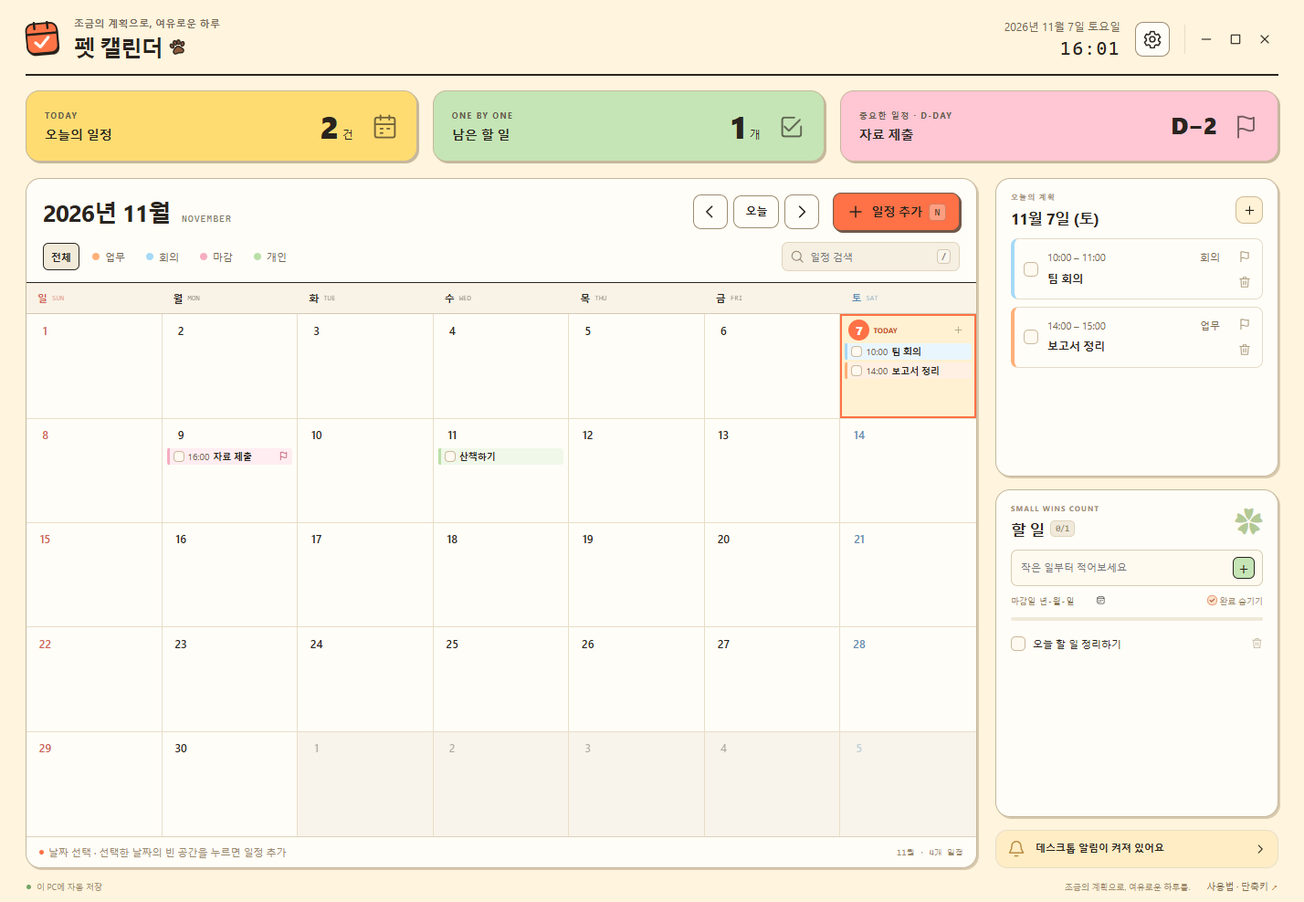
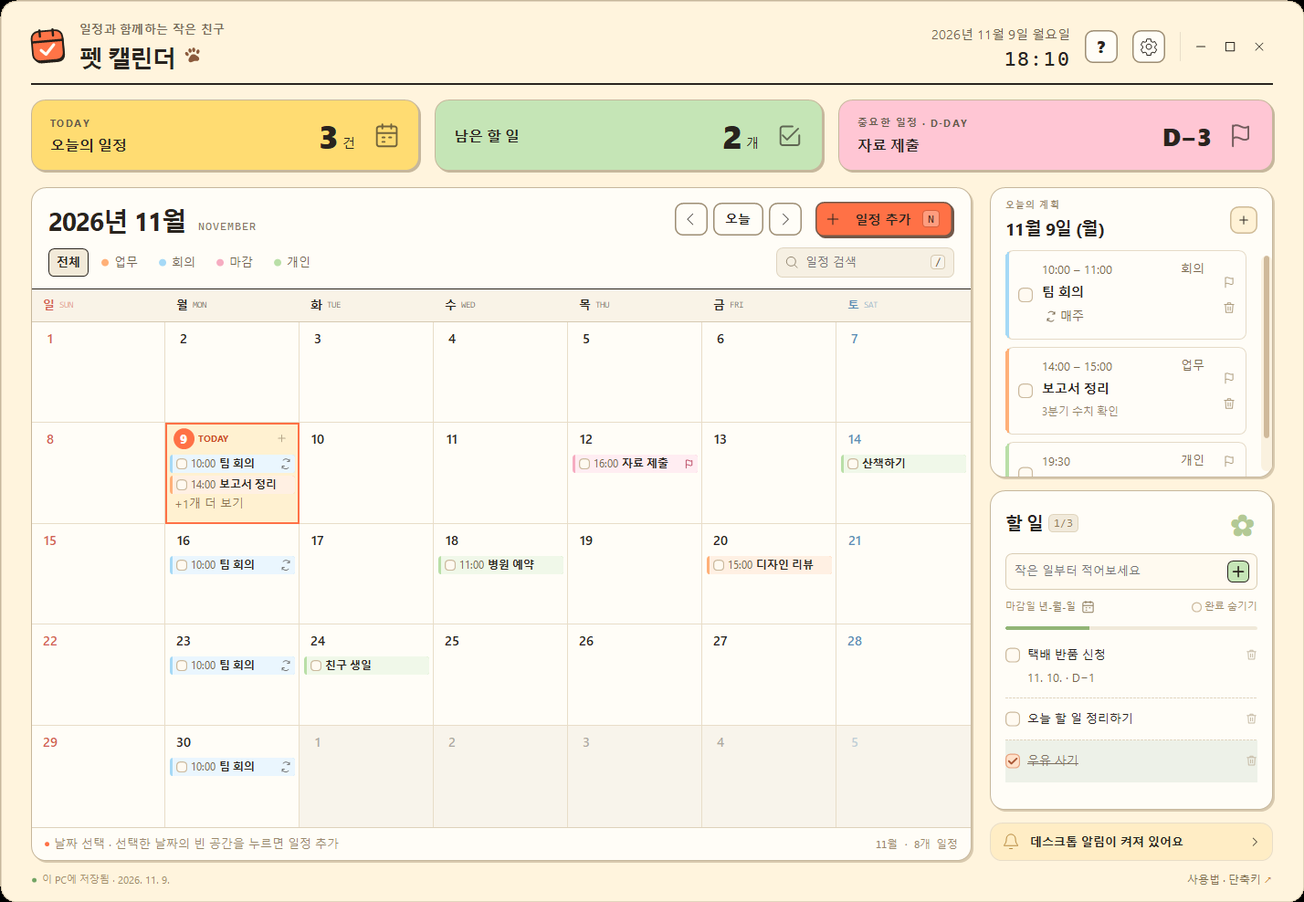
Release v3.1.0: day popup, undo/redo, drag to tasks
- "+N more" opens a popup with every schedule of that date
- Undo/redo history for event and task changes (Ctrl+Z / Ctrl+Y), shared with toast undo buttons
- Close button on undo toasts
- Drag schedules from the day panel; drop schedules on the task panel to turn them into tasks
- Fix a crash when closing a dialog while a toast was shown (toast owner reassignment)
- Wider window resize band and corner zones
- Center the task add button; update help text, README and screenshot

diff --git a/desktop/native/CalendarLogic.cs b/desktop/native/CalendarLogic.cs
@@ -56,7 +56,8 @@ namespace PetCalendarDesktop {
             foreach(var list in days.Values)list.Sort(CompareDay);
             indexCache=days;indexState=state;indexToken=token;return days;
         }
-        internal List<Occurrence> SelectedRows(){List<Occurrence> rows;if(MonthIndex().TryGetValue(selected,out rows))return rows;rows=Rules.Occurrences(state.events.Where(Matches),selected,selected,false).Where(o=>String.CompareOrdinal(o.startDate,selected)<=0&&String.CompareOrdinal(o.endDate,selected)>=0).ToList();rows.Sort(CompareDay);return rows;}
+        internal List<Occurrence> SelectedRows(){return RowsFor(selected);}
+        internal List<Occurrence> RowsFor(string key){List<Occurrence> rows;if(MonthIndex().TryGetValue(key,out rows))return rows;rows=Rules.Occurrences(state.events.Where(Matches),key,key,false).Where(o=>String.CompareOrdinal(o.startDate,key)<=0&&String.CompareOrdinal(o.endDate,key)>=0).ToList();rows.Sort(CompareDay);return rows;}
         int TodayCount(){string today=Rules.Key(DateTime.Today);return Rules.Occurrences(state.events,today,today,false).Count(o=>String.CompareOrdinal(o.startDate,today)<=0&&String.CompareOrdinal(o.endDate,today)>=0);}
         List<CalendarEvent> SearchFound(){if(searchCache!=null&&searchState==state&&searchToken==filter+"|"+search)return searchCache;searchState=state;searchToken=filter+"|"+search;return searchCache=state.events.Where(Matches).OrderBy(e=>e.startDate,StringComparer.Ordinal).ToList();}
         string VisibleCount(){
@@ -84,8 +85,9 @@ namespace PetCalendarDesktop {
         // Saves run one after another; each re-applies its change to the latest saved state,
         // so quick successive clicks are never dropped. A failure restores the saved state.
         Task saveChain=Task.FromResult(true);int pendingSaves;bool saveFailedInBatch;
-        internal async Task<bool> Commit(Action<CalendarState> change,bool applyHotkey=false){
-            var preview=Clone(state);
+        internal Task<bool> Commit(Action<CalendarState> change,bool applyHotkey=false){return Commit(change,applyHotkey,true);}
+        async Task<bool> Commit(Action<CalendarState> change,bool applyHotkey,bool record){
+            var before=state;var preview=Clone(state);
             try{change(preview);Rules.Validate(Codec.Json(preview));}catch(Exception error){Toast("내용을 확인해 주세요",error.Message,"error");return false;}
             pendingSaves++;saving=true;state=preview;Render();
             if(pendingSaves==1){saveFailedInBatch=false;foreach(var d in DialogForm.Open.ToArray())d.SavingChanged();}
@@ -98,6 +100,7 @@ namespace PetCalendarDesktop {
                 if(response.status==409)throw new Exception("다른 창의 변경 내용을 불러왔습니다. 입력 중인 내용을 확인한 뒤 다시 저장해 주세요.");
                 if(response.status!=200)throw new Exception(ErrorOf(response.body)??"저장하지 못했습니다.");
                 ok=true;
+                if(record)Record(before,preview);
             }catch(Exception error){
                 saveFailedInBatch=true;Banner(error.Message);SetSaveStatus("저장하지 못함 · 입력 내용을 확인해 주세요",true);Toast("저장을 완료하지 못했어요",error.Message,"error",10000);
             }finally{
@@ -112,6 +115,62 @@ namespace PetCalendarDesktop {
             }
             return ok;
         }
+        // ---------- Undo / redo ----------
+        // Each saved change to events or tasks is remembered as per-item before/after copies.
+        // Undo writes the "before" copies back onto the latest state (and redo the "after" ones),
+        // so it merges with unrelated edits made since, e.g. from the widget or another window.
+        internal sealed class HistoryEntry {public List<ItemChange> Events=new List<ItemChange>(),Tasks=new List<ItemChange>();public string Label="";}
+        internal sealed class ItemChange {public string Id,Before,After;public int BeforeIndex,AfterIndex;}
+        readonly List<HistoryEntry> undoStack=new List<HistoryEntry>(),redoStack=new List<HistoryEntry>();
+        internal HistoryEntry LastRecorded{get{return undoStack.Count>0?undoStack[undoStack.Count-1]:null;}}
+        static List<ItemChange> Diff<T>(T[] before,T[] after,Func<T,string> id){
+            var result=new List<ItemChange>();var b=new Dictionary<string,int>();var a=new Dictionary<string,int>();
+            for(int i=0;i<before.Length;i++)b[id(before[i])]=i;for(int i=0;i<after.Length;i++)a[id(after[i])]=i;
+            foreach(var key in b.Keys.Concat(a.Keys.Where(k=>!b.ContainsKey(k)))){
+                int bi,ai;bool hb=b.TryGetValue(key,out bi),ha=a.TryGetValue(key,out ai);
+                string bj=hb?Codec.Json(before[bi]):null,aj=ha?Codec.Json(after[ai]):null;
+                if(bj!=aj)result.Add(new ItemChange{Id=key,Before=bj,After=aj,BeforeIndex=hb?bi:-1,AfterIndex=ha?ai:-1});
+            }
+            return result;
+        }
+        void Record(CalendarState before,CalendarState after){
+            if(before==null||after==null)return;
+            var entry=new HistoryEntry{Events=Diff(before.events,after.events,e=>e.id),Tasks=Diff(before.tasks,after.tasks,t=>t.id)};
+            if(entry.Events.Count+entry.Tasks.Count==0)return;
+            var first=entry.Events.Concat(entry.Tasks).First();string json=first.After??first.Before;
+            try{var o=Codec.Object(json);object title;if(o!=null&&o.TryGetValue("title",out title))entry.Label=title as string??"";}catch{}
+            int count=entry.Events.Count+entry.Tasks.Count;if(count>1&&entry.Label.Length>0)entry.Label+=" 외 "+(count-1)+"개";
+            undoStack.Add(entry);if(undoStack.Count>100)undoStack.RemoveAt(0);redoStack.Clear();
+        }
+        static T[] Patch<T>(T[] current,List<ItemChange> changes,bool undo,Func<T,string> id){
+            var list=current.ToList();
+            foreach(var c in changes){
+                string json=undo?c.Before:c.After;int at=undo?c.BeforeIndex:c.AfterIndex;int index=list.FindIndex(x=>id(x)==c.Id);
+                if(json==null){if(index>=0)list.RemoveAt(index);continue;}
+                var item=Codec.Read<T>(json);if(index>=0)list[index]=item;else list.Insert(Math.Max(0,Math.Min(list.Count,at)),item);
+            }
+            return list.ToArray();
+        }
+        static void Apply(CalendarState s,HistoryEntry entry,bool undo){
+            s.events=Patch(s.events,entry.Events,undo,e=>e.id);s.tasks=Patch(s.tasks,entry.Tasks,undo,t=>t.id);
+            // Only one schedule can be the D-day; keep the restored one.
+            var restored=new HashSet<string>(entry.Events.Select(c=>c.Id));
+            if(s.events.Count(e=>e.pinned)>1){foreach(var e in s.events)if(e.pinned&&!restored.Contains(e.id)){e.pinned=false;e.pinnedDate="";}
+                bool kept=false;foreach(var e in s.events)if(e.pinned){if(kept){e.pinned=false;e.pinnedDate="";}kept=true;}}
+        }
+        // Returns false when there was nothing to undo or the save failed.
+        internal async Task<bool> Undo(HistoryEntry only=null){
+            var entry=LastRecorded;if(entry==null||(only!=null&&entry!=only))return false;undoStack.RemoveAt(undoStack.Count-1);
+            if(await Commit(s=>Apply(s,entry,true),false,false)){redoStack.Add(entry);return true;}
+            undoStack.Add(entry);return false;
+        }
+        internal async Task<bool> Redo(){
+            if(redoStack.Count==0)return false;var entry=redoStack[redoStack.Count-1];redoStack.RemoveAt(redoStack.Count-1);
+            if(await Commit(s=>Apply(s,entry,false),false,false)){undoStack.Add(entry);return true;}
+            redoStack.Add(entry);return false;
+        }
+        async void UndoKey(){if(undoStack.Count==0){Toast("되돌릴 작업이 없어요");return;}var entry=LastRecorded;var label=entry.Label;if(await Undo()){Toasts.CloseFor(entry);Toast("실행을 취소했어요",label+"\nCtrl+Y로 다시 실행할 수 있어요.");}}
+        async void RedoKey(){if(redoStack.Count==0){Toast("다시 실행할 작업이 없어요");return;}var label=redoStack[redoStack.Count-1].Label;if(await Redo())Toast("다시 실행했어요",label);}
         internal string LastError{get{return bannerText??"";}}
         void Reload(){if(saving)return;state=store.Snapshot;bannerVisible=false;Render();SetSaveStatus("최신 내용을 불러왔어요",false);Toast("최신 내용을 불러왔어요","입력 중인 내용은 확인 후 다시 저장해 주세요.");}
         internal void StoreChanged(){
@@ -120,7 +179,13 @@ namespace PetCalendarDesktop {
         }
         // ---------- Toasts and prompts ----------
         internal void Toast(string title,string detail="",string kind="info",int duration=6000){Toasts.Show(title,detail,kind,duration);}
-        internal void UndoToast(string title,string detail,Func<Task<bool>> restore,string restored="삭제를 되돌렸어요"){Toasts.Show(title,detail,"info",10000,"되돌리기",restore,restored);}
+        // The undo button rolls back through the shared history while this change is still the
+        // latest one (so Ctrl+Z and the button agree); otherwise it falls back to a targeted restore.
+        internal void UndoToast(string title,string detail,Func<Task<bool>> restore,string restored="삭제를 되돌렸어요"){
+            var entry=LastRecorded;
+            var toast=Toasts.Show(title,detail,"info",10000,"되돌리기",async()=>{if(entry!=null&&LastRecorded==entry)return await Undo(entry);return await restore();},restored);
+            if(toast!=null)toast.Entry=entry;
+        }
         internal Task<bool> Confirm(string title,string text,string label="확인"){
             if(DialogForm.Open.OfType<ConfirmDialog>().Any())return Task.FromResult(false);
             var source=new TaskCompletionSource<bool>();var dialog=new ConfirmDialog(this,title,text,label,source);dialog.Show(dialog.Accept);return source.Task;
@@ -131,6 +196,8 @@ namespace PetCalendarDesktop {
             var e=state.events.FirstOrDefault(x=>x.id==id);if(e==null)return;bool done=!Rules.Done(e,key);
             if(!await Commit(s=>{var item=s.events.FirstOrDefault(x=>x.id==id);if(item==null)return;item.completedDates=item.completedDates.Where(d=>d!=key).Concat(done?new[]{key}:new string[0]).ToArray();}))Render();
         }
+        internal void ToggleOccurrence(string id,string key){ToggleEvent(id,key);}
+        internal void OpenDayList(string key){if(modal)return;var dialog=new DayListDialog(this,key);dialog.Show(null);}
         internal void OpenEvent(string id,string key,bool duplicate){
             if(saving||modal&&!DialogForm.Open.OfType<EventDialog>().Any()&&false)return;
             if(DialogForm.Open.OfType<EventDialog>().Any()&&!duplicate)return;
@@ -199,7 +266,23 @@ namespace PetCalendarDesktop {
                         if(series.completedDates.Concat(series.excludedDates).Concat(series.pinnedDate!=""?new[]{series.pinnedDate}:new string[0]).Any(k=>!Rules.OccursOn(probe,k)))throw new AppError(400,"반복 일정의 기존 기록을 보존하려면 이번 일정만 이동해 주세요.");}
                 }
             });
-            if(ok){JumpTo(target);Toast("일정을 옮겼어요",original.title);}
+            if(ok){JumpTo(target);UndoToast("일정을 옮겼어요",original.title,()=>Task.FromResult(false),"이동을 되돌렸어요");}
+        }
+        // A schedule dropped on the task panel becomes a task due on that date. For a repeating
+        // schedule the user picks this occurrence only (skipped in the series) or the whole series.
+        async void DropToTasks(DragInfo d){
+            var original=state.events.FirstOrDefault(e=>e.id==d.EventId);if(original==null)return;
+            string scope="all";if(original.repeat!="none"){scope=await RepeatScope("할 일로 이동",d.Start);if(scope==null)return;}
+            bool done=Rules.Done(original,d.Start);string due=scope=="one"||original.repeat=="none"?d.Start:original.startDate;
+            var task=new CalendarTask{id=scope=="one"?Guid.NewGuid().ToString():original.id,title=original.title,dueDate=due,done=scope=="one"||original.repeat=="none"?done:false,createdAt=DateTime.UtcNow.ToString("yyyy-MM-ddTHH:mm:ss.fffZ",CultureInfo.InvariantCulture)};
+            bool ok=await Commit(s=>{
+                var series=s.events.FirstOrDefault(e=>e.id==d.EventId);if(series==null)throw new AppError(400,"일정을 찾지 못했습니다.");
+                if(scope=="one"){series.excludedDates=series.excludedDates.Concat(new[]{d.Start}).Distinct().ToArray();if(series.pinned&&series.pinnedDate==d.Start){series.pinned=false;series.pinnedDate="";}}
+                else s.events=s.events.Where(e=>e.id!=series.id).ToArray();
+                if(s.tasks.Any(t=>t.id==task.id))task.id=Guid.NewGuid().ToString();
+                s.tasks=s.tasks.Concat(new[]{task}).ToArray();
+            });
+            if(ok)UndoToast("일정을 할 일로 옮겼어요",original.title,()=>Task.FromResult(false),"일정으로 되돌렸어요");
         }
         // ---------- Tasks ----------
         async void AddTask(){

diff --git a/desktop/native/Dialogs.cs b/desktop/native/Dialogs.cs
@@ -245,6 +245,63 @@ namespace PetCalendarDesktop {
         protected override void OnMouseUp(MouseEventArgs e){bool more;int i=At(e.Location,out more);if(more){view.limits["dday"]+=CalendarView.pageSizes["dday"];Invalidate();var form=FindForm() as DialogForm;if(form!=null)form.Relayout();return;}if(i>=0){var o=rows[i];view.ChooseDday(o.@event.id,o.startDate,false);}}
         protected override void OnMouseWheel(MouseEventArgs e){Offset-=(int)(e.Delta/120f*100*Sc);Invalidate();var h=e as HandledMouseEventArgs;if(h!=null)h.Handled=true;}
     }
+    // ---------------- Day list ("+N개 더 보기") ----------------
+    // Every schedule of one date in a popup, like the event editor: tick to complete,
+    // click to edit (the editor opens on top), or add a new one for that date.
+    public sealed class DayListDialog : DialogForm {
+        public readonly string Key;readonly DayList list;readonly Btn add=new Btn(BtnKind.Primary,"일정 추가","plus");
+        public DayListDialog(CalendarView view,string key):base(view,CalendarView.FormatDay(key),key==Rules.Key(DateTime.Today)?"오늘의 계획":"선택한 날짜"){
+            Key=key;WidthCss=460;
+            list=new DayList(view,key);Body.Add(new DayListItem(list){Top=4});
+            Footer(new Control[0],new Control[]{add});
+            add.Click+=delegate{View.OpenEvent(null,Key,false);};
+        }
+        public override void StateChanged(){list.Rebuild();if(IsHandleCreated)Relayout();}
+        sealed class DayListItem : FlowItem {
+            readonly DayList list;readonly ControlItem item;public DayListItem(DayList l){list=l;item=new ControlItem(l);}
+            public override void Attach(FlowPanel p){item.Attach(p);}
+            public override int Measure(FlowPanel p,int width){int max=(int)Math.Round(list.ViewHeight()*0.6f);return Math.Max((int)(60*p.Sc),Math.Min(max,list.ContentHeight(width)));}
+            public override void Arrange(FlowPanel p,Rectangle r){Bounds=r;item.Bounds=r;}
+            public override void Position(FlowPanel p,int scroll){item.Position(p,scroll);}
+        }
+    }
+    public sealed class DayList : Control {
+        readonly CalendarView view;readonly string key;List<Occurrence> rows=new List<Occurrence>();int Offset;int hover=-1;bool hoverCheck;readonly ScrollModel scroll=new ScrollModel();
+        public DayList(CalendarView owner,string date){view=owner;key=date;SetStyle(ControlStyles.UserPaint|ControlStyles.AllPaintingInWmPaint|ControlStyles.OptimizedDoubleBuffer|ControlStyles.ResizeRedraw|ControlStyles.Selectable,true);TabStop=true;Rebuild();}
+        float Sc{get{return DeviceDpi/96f;}}
+        public int ViewHeight(){return view.ViewportScreen().Height;}
+        public void Rebuild(){rows=view.RowsFor(key);Invalidate();}
+        int Inner(int width){return scroll.Visible?width-(int)(12*Sc):width;}
+        int TextWidth(int width){float s=Sc;return width-(int)Math.Round((8+4+12+16+12+14)*s);}
+        int RowHeight(Occurrence o,int width){float s=Sc;var e=o.@event;int lines=Ui.Wrap(e.title,Ui.Font(s,13,700,null,e.title),TextWidth(width)).Count;float h=12*s+Css.Px(11)*1.5f*s+4*s+lines*Css.Px(13)*1.55f*s+12*s;if(e.note!="")h+=Math.Min(2,Ui.Wrap(e.note,Ui.Font(s,11,400,null,e.note),TextWidth(width)).Count)*Css.Px(11)*1.6f*s;return (int)Math.Ceiling(Math.Max(h,56*s));}
+        public int ContentHeight(int width){float s=Sc;if(rows.Count==0)return (int)Math.Ceiling(Css.Px(11)*1.8f*s+36*s);int h=(int)(4*s);foreach(var o in rows)h+=RowHeight(o,width)+(int)(7*s);return h;}
+        RectangleF CheckBox(RectangleF r){float s=Sc;return new RectangleF(r.X+4*s+12*s,r.Y+(r.Height-16*s)/2,16*s,16*s);}
+        protected override void OnPaint(PaintEventArgs e){
+            var g=e.Graphics;float s=Sc;g.Clear(DesktopTheme.Card);Ui.Prepare(g);
+            int width=Width;scroll.Content=ContentHeight(width);scroll.Viewport=Height;scroll.Bounds=ClientRectangle;if(scroll.Visible){width=Inner(Width);scroll.Content=ContentHeight(width);}scroll.Offset=Offset;scroll.Clamp();Offset=scroll.Offset;
+            if(rows.Count==0){string text="이 날짜에는 일정이 없어요.";Ui.Paragraph(g,text,Ui.Font(s,11,400,null,text),(int)(4*s),(int)(18*s)-Offset,width-(int)(8*s),Css.Px(11)*1.8f*s,Ui.C("#a29276"),false,TextFormatFlags.HorizontalCenter);}
+            int y=(int)(4*s)-Offset;int i=0;
+            foreach(var o in rows){
+                var ev=o.@event;int h=RowHeight(o,width);var r=new RectangleF(2*s,y,width-4*s,h);bool done=Rules.Done(ev,o.startDate);bool hot=i==hover;
+                Color light=Ui.C(CalendarView.CategoryLight(ev.category));Color fill=done?Ui.C(hot?"#e3eadc":"#edf1e8"):hot?light:Ui.C("#fffdf8");
+                Ui.LeftEdgeCard(g,r,8*s,fill,Ui.C("#e5dac7"),4*s,DesktopTheme.Category(ev.category),s);
+                var box=CheckBox(r);Ui.CheckBox(g,box,done,hot&&hoverCheck,true,5*s,s,fill);
+                int x=(int)(box.Right+12*s);int tw=TextWidth(width);int ty=(int)(r.Y+12*s);var small=Ui.Font(s,11,400);int lh=(int)Math.Round(Css.Px(11)*1.5f*s);
+                string time=ev.startTime!=""?ev.startTime+(ev.endTime!=""?" – "+ev.endTime:""):"종일";if(o.startDate!=o.endDate)time+=" · "+Rules.Date(o.startDate).ToString("M. d.",CultureInfo.InvariantCulture)+" – "+Rules.Date(o.endDate).ToString("M. d.",CultureInfo.InvariantCulture);
+                string cat=DesktopTheme.CategoryName(ev.category)+(ev.repeat!="none"?" · 반복":"")+(view.IsDdayOccurrence(o)?" · D-day":"");
+                int cw=Ui.Width(cat,Ui.Font(s,11,400,null,cat));Ui.Text(g,time,small,new Rectangle(x,ty,tw-cw-(int)(8*s),lh),Ui.C("#79694f"),TextFormatFlags.VerticalCenter|TextFormatFlags.EndEllipsis);Ui.Text(g,cat,Ui.Font(s,11,400,null,cat),new Rectangle(x+tw-cw,ty,cw+2,lh),Ui.C("#79694f"),TextFormatFlags.VerticalCenter);
+                ty+=lh+(int)(4*s);var tf=Ui.Font(s,13,700,null,ev.title,done?FontStyle.Strikeout:FontStyle.Regular);ty+=Ui.Paragraph(g,ev.title,tf,x,ty,tw,Css.Px(13)*1.55f*s,done?Ui.C("#7b7060"):DesktopTheme.Ink);
+                if(ev.note!=""){var nf=Ui.Font(s,11,400,null,ev.note);var lines=Ui.Wrap(ev.note,nf,tw);string note=String.Join("\n",lines.Take(2))+(lines.Count>2?"…":"");Ui.Paragraph(g,note,nf,x,ty,tw,Css.Px(11)*1.6f*s,Ui.C("#93836a"));}
+                y+=h+(int)(7*s);i++;
+            }
+            Ui.ScrollBar(g,scroll,s);
+        }
+        int At(Point p,out bool check){float s=Sc;check=false;int width=Inner(Width);int y=(int)(4*s)-Offset;int i=0;foreach(var o in rows){int h=RowHeight(o,width);if(p.Y>=y&&p.Y<y+h&&p.X<width){var box=CheckBox(new RectangleF(2*s,y,width-4*s,h));box.Inflate(5*s,5*s);check=box.Contains(p);return i;}y+=h+(int)(7*s);i++;}return -1;}
+        protected override void OnMouseMove(MouseEventArgs e){bool check;int i=At(e.Location,out check);if(i!=hover||check!=hoverCheck){hover=i;hoverCheck=check;Invalidate();}Cursor=i>=0?Cursors.Hand:Cursors.Default;}
+        protected override void OnMouseLeave(EventArgs e){hover=-1;hoverCheck=false;Invalidate();}
+        protected override void OnMouseUp(MouseEventArgs e){if(e.Button!=MouseButtons.Left)return;bool check;int i=At(e.Location,out check);if(i<0)return;var o=rows[i];if(check)view.ToggleOccurrence(o.@event.id,o.startDate);else view.OpenEvent(o.@event.id,o.startDate,false);}
+        protected override void OnMouseWheel(MouseEventArgs e){Offset-=(int)(e.Delta/120f*100*Sc);Invalidate();var h=e as HandledMouseEventArgs;if(h!=null)h.Handled=true;}
+    }
     // ---------------- Confirm / repeat scope ----------------
     public sealed class ConfirmDialog : DialogForm {
         public readonly Btn Accept;readonly TaskCompletionSource<bool> result;bool done;
@@ -274,8 +331,9 @@ namespace PetCalendarDesktop {
             Color body=Ui.C("#8a7654");Func<TextItem> para=()=>{var t=new TextItem("",12,400,body,2f);t.Top=t.Bottom=Css.Px(12);return t;};
             var p1=para();p1.Runs=new List<Run>{new Run("날짜 숫자를 누르면 오른쪽에 일정이 표시됩니다. 빈 공간을 누르면 해당 날짜가 선택되고, 이미 선택한 날짜의 빈 공간을 다시 누르면 새 일정 입력창이 열립니다. ",-1),new Run("+ 일정 추가",700,DesktopTheme.Ink),new Run("로도 추가할 수 있어요.",-1)};Body.Add(p1);
             Body.Add(para().Set("일정을 누르면 수정·복제·삭제할 수 있습니다. 반복 일정은 이번 회차만 또는 전체를 수정·삭제할 수 있습니다. 상단 ‘중요한 일정 · D-DAY’를 누르면 기존 일정 중 하나를 직접 고를 수 있습니다. 오른쪽 일정의 깃발이나 일정 입력창의 ‘D-day로 표시’로도 선택할 수 있습니다. 반복 일정은 선택한 회차의 시작일을 기준으로 표시합니다. 카드에서 선택을 바꾸거나 해제할 수 있습니다."));
+            Body.Add(para().Set("일정은 끌어서 다른 날짜로 옮기거나, 할 일 칸에 놓아 할 일로 바꿀 수 있습니다. 할 일도 달력 날짜로 끌어 일정으로 만들 수 있어요. 일정이 많은 날은 ‘+N개 더 보기’를 눌러 한 번에 확인하세요."));
             Body.Add(para().Set("검색은 모든 기간의 제목과 메모를 찾습니다. 분류 버튼은 한 번 더 누르면 전체로 돌아갑니다."));
-            var keys=new[]{new[]{"N","선택한 날짜에 새 일정"},new[]{"/","일정 검색"},new[]{"T","오늘로 이동"},new[]{"←|→","이전 달 · 다음 달"},new[]{"Esc","입력창 닫기"}};
+            var keys=new[]{new[]{"N","선택한 날짜에 새 일정"},new[]{"/","일정 검색"},new[]{"T","오늘로 이동"},new[]{"←|→","이전 달 · 다음 달"},new[]{"Ctrl|Z","실행 취소 · Ctrl+Y 다시 실행"},new[]{"Esc","입력창 닫기"}};
             var dl=new PaintItem{Top=Css.Px(12),Bottom=Css.Px(12)};
             dl.OnMeasure=(p,w)=>{float s=p.Sc;float row=Math.Max(Css.Px(12)*1.33f,Css.Px(10)+6)*s;return (int)Math.Ceiling(36*s+keys.Length*row+(keys.Length-1)*12*s+2*s);};
             dl.OnPaint=(p,g,r)=>{float s=p.Sc;using(var b=new SolidBrush(DesktopTheme.Line)){g.FillRectangle(b,r.X,r.Y,r.Width,s);g.FillRectangle(b,r.X,r.Bottom-s,r.Width,s);}

diff --git a/desktop/native/NativeFlow.cs b/desktop/native/NativeFlow.cs
@@ -366,22 +366,29 @@ namespace PetCalendarDesktop {
     public static class Toasts {
         static readonly List<ToastWindow> active=new List<ToastWindow>();static CalendarView view;
         public static void Attach(CalendarView owner){view=owner;}
-        public static void Show(string title,string detail,string kind,int duration,string action=null,Func<Task<bool>> onAction=null,string restored=null){
-            if(view==null||view.IsDisposed)return;
+        public static ToastWindow Show(string title,string detail,string kind,int duration,string action=null,Func<Task<bool>> onAction=null,string restored=null){
+            if(view==null||view.IsDisposed)return null;
             var toast=new ToastWindow(title,detail,kind,action,onAction,restored);active.Add(toast);toast.FormClosed+=delegate{active.Remove(toast);Layout();};
             Layout();if(view.FindForm().Visible)toast.Show(view.FindForm());var timer=new Timer{Interval=duration};toast.Timer=timer;timer.Tick+=delegate{timer.Stop();timer.Dispose();toast.Close();};timer.Start();
+            return toast;
         }
+        // Undoing a change by keyboard retires the toast that offered to undo it.
+        public static void CloseFor(object entry){foreach(var t in active.ToArray())if(t.Entry!=null&&t.Entry==entry&&!t.IsDisposed){if(t.Timer!=null)t.Timer.Dispose();t.Close();}}
         public static void Layout(){
             if(view==null||view.IsDisposed)return;float s=view.DeviceDpi/96f;var area=view.ViewportScreen();int bottom=area.Bottom-(int)Math.Round(22*s),right=area.Right-(int)Math.Round(20*s);
             int width=active.Select(t=>t.PreferredWidth(area.Width-(int)(40*s))).DefaultIfEmpty(0).Max();
             for(int i=active.Count-1;i>=0;i--){var t=active[i];int h=t.PreferredHeight(width);bottom-=h;t.Bounds=new Rectangle(right-width,bottom,width+(int)Math.Ceiling(2*s),h+(int)Math.Ceiling(2*s));t.Invalidate();bottom-=(int)Math.Round(9*s);}
         }
-        public static void Raise(){if(view==null)return;var owner=DialogForm.Open.Count>0?(Form)DialogForm.Open[DialogForm.Open.Count-1]:view.FindForm();foreach(var t in active.ToArray()){if(t.IsDisposed)continue;t.Owner=owner;if(t.Visible)t.BringToFront();}}
-        public static void SetVisible(bool visible){foreach(var t in active.ToArray()){if(visible){if(!t.Visible)t.Show(view.FindForm());}else t.Hide();}Layout();}
+        public static void Raise(){if(view==null)return;var owner=DialogForm.Open.Count>0?(Form)DialogForm.Open[DialogForm.Open.Count-1]:view.FindForm();foreach(var t in active.ToArray()){if(t.IsDisposed)continue;Reown(t,owner);if(t.Visible)t.BringToFront();}}
+        // WinForms rejects moving a form to an owner that is already further up its own owner
+        // chain (toast → dialog → backdrop → main window) as a "circular reference", so a toast
+        // is detached first. Without this, closing a dialog while a toast was up crashed the app.
+        static void Reown(Form t,Form owner){if(t.Owner==owner)return;t.Owner=null;t.Owner=owner;}
+        public static void SetVisible(bool visible){foreach(var t in active.ToArray()){if(visible){if(!t.Visible){t.Owner=null;t.Show(view.FindForm());}}else t.Hide();}Layout();}
         public static int Count{get{return active.Count;}}
     }
     public sealed class ToastWindow : Form {
-        readonly string title,detail,kind,action,restored;readonly Func<Task<bool>> onAction;public Timer Timer;bool hoverAction,busy;
+        readonly string title,detail,kind,action,restored;readonly Func<Task<bool>> onAction;public Timer Timer;public object Entry;bool hoverAction,hoverClose,busy;
         public ToastWindow(string title,string detail,string kind,string action,Func<Task<bool>> onAction,string restored){
             this.title=title;this.detail=detail??"";this.kind=kind;this.action=action;this.onAction=onAction;this.restored=restored;
             FormBorderStyle=FormBorderStyle.None;ShowInTaskbar=false;StartPosition=FormStartPosition.Manual;DoubleBuffered=true;AutoScaleMode=AutoScaleMode.None;
@@ -391,12 +398,16 @@ namespace PetCalendarDesktop {
         float Sc{get{return DeviceDpi/96f;}}
         Font TitleFont{get{return Ui.Font(Sc,12,700,null,title);}}
         Font DetailFont{get{return Ui.Font(Sc,11,400,null,detail);}}
-        Font ActionFont{get{return Ui.Font(Sc,17,400,null,action??"×");}}
-        int ActionWidth{get{return Ui.Width(action??"×",ActionFont);}}
+        Font ActionFont{get{return action==null?Ui.Font(Sc,17,400,null,"×"):Ui.Font(Sc,12,700,null,action);}}
+        int ActionWidth{get{return Ui.Width(action??"×",ActionFont)+(action!=null?CloseWidth+(int)Math.Round(10*Sc):0);}}
+        Font CloseFont{get{return Ui.Font(Sc,17,400,null,"×");}}
+        int CloseWidth{get{return Ui.Width("×",CloseFont);}}
         public int PreferredWidth(int max){float s=Sc;int text=Math.Max(Ui.Width(title,TitleFont),detail.Split('\n').Select(l=>Ui.Width(l,DetailFont)).DefaultIfEmpty(0).Max());int w=(int)Math.Round(17*2*s+3*s+20*s+12*s*2)+text+ActionWidth;return Math.Min(Math.Min((int)Math.Round(390*s),max),w);}
         int TextWidth(int width){float s=Sc;return width-(int)Math.Round(17*2*s+3*s+20*s+12*s*2)-ActionWidth;}
         public int PreferredHeight(int width){float s=Sc;int h=(int)Math.Round(TitleFont.GetHeight()*1.15f);if(detail.Length>0)h+=(int)Math.Round(4*s)+Ui.Paragraph(null,detail,DetailFont,0,0,TextWidth(width),(11+(1+DesktopTheme.TextScale)*4f/3f)*1.7f*s,Color.Black,true);return Math.Max(h,(int)Math.Round(20*s))+(int)Math.Round(28*s+3*s);}
-        Rectangle ActionRect{get{float s=Sc;int shadow=(int)Math.Ceiling(2*s);return new Rectangle(Width-shadow-(int)Math.Round(17*s+1.5f*s)-ActionWidth,(int)Math.Round(12*s),ActionWidth,(int)Math.Round(ActionFont.GetHeight()));}}
+        Rectangle ActionRect{get{float s=Sc;int shadow=(int)Math.Ceiling(2*s);int w=Ui.Width(action??"×",ActionFont);return new Rectangle(Width-shadow-(int)Math.Round(17*s+1.5f*s)-ActionWidth,(int)Math.Round(12*s),w,(int)Math.Round(ActionFont.GetHeight()));}}
+        Rectangle CloseRect{get{if(action==null)return Rectangle.Empty;float s=Sc;int shadow=(int)Math.Ceiling(2*s);return new Rectangle(Width-shadow-(int)Math.Round(17*s+1.5f*s)-CloseWidth,(int)Math.Round(12*s),CloseWidth,(int)Math.Round(CloseFont.GetHeight()));}}
+        Rectangle Grown(Rectangle r){if(r.IsEmpty)return r;r.Inflate((int)(4*Sc),(int)(4*Sc));return r;}
         protected override void OnDpiChanged(DpiChangedEventArgs e){base.OnDpiChanged(e);BeginInvoke(new Action(Toasts.Layout));}
         protected override void OnSizeChanged(EventArgs e){base.OnSizeChanged(e);float s=Sc;int shadow=(int)Math.Ceiling(2*s);var p=new GraphicsPath();p.AddPath(Ui.Round(new RectangleF(0,0,Width-shadow,Height-shadow),12*s),false);p.AddPath(Ui.Round(new RectangleF(shadow,shadow,Width-shadow,Height-shadow),12*s),false);p.FillMode=FillMode.Winding;Region=new Region(p);p.Dispose();}
         protected override void OnPaint(PaintEventArgs e){
@@ -408,15 +419,16 @@ namespace PetCalendarDesktop {
             int tw=TextWidth(Width-shadow);int th=(int)Math.Round(TitleFont.GetHeight()*1.15f);Ui.Text(g,title,TitleFont,new Rectangle(x,y,tw,th),DesktopTheme.Ink,TextFormatFlags.VerticalCenter|TextFormatFlags.EndEllipsis);
             if(detail.Length>0)Ui.Paragraph(g,detail,DetailFont,x,y+th+(int)Math.Round(4*s),tw,(11+(1+DesktopTheme.TextScale)*4f/3f)*1.7f*s,DesktopTheme.Ink);
             Ui.Text(g,action??"×",ActionFont,ActionRect,busy?DesktopTheme.Muted:hoverAction?Ui.C("#bf4722"):DesktopTheme.Ink,TextFormatFlags.Default);
+            if(action!=null)Ui.Text(g,"×",CloseFont,CloseRect,hoverClose?Ui.C("#bf4722"):DesktopTheme.Muted,TextFormatFlags.Default);
         }
         protected override void WndProc(ref Message m){
-            if(m.Msg==0x0084){long packed=m.LParam.ToInt64();var p=PointToClient(new Point((short)(packed&0xffff),(short)((packed>>16)&0xffff)));var r=ActionRect;r.Inflate((int)(4*Sc),(int)(4*Sc));m.Result=r.Contains(p)?new IntPtr(1):new IntPtr(-1);return;}
+            if(m.Msg==0x0084){long packed=m.LParam.ToInt64();var p=PointToClient(new Point((short)(packed&0xffff),(short)((packed>>16)&0xffff)));m.Result=Grown(ActionRect).Contains(p)||Grown(CloseRect).Contains(p)?new IntPtr(1):new IntPtr(-1);return;}
             base.WndProc(ref m);
         }
-        protected override void OnMouseMove(MouseEventArgs e){base.OnMouseMove(e);bool h=ActionRect.Contains(e.Location);if(h!=hoverAction){hoverAction=h;Cursor=h?Cursors.Hand:Cursors.Default;Invalidate();}}
-        protected override void OnMouseLeave(EventArgs e){base.OnMouseLeave(e);hoverAction=false;Invalidate();}
+        protected override void OnMouseMove(MouseEventArgs e){base.OnMouseMove(e);bool h=Grown(ActionRect).Contains(e.Location),c=Grown(CloseRect).Contains(e.Location);if(h!=hoverAction||c!=hoverClose){hoverAction=h;hoverClose=c;Cursor=h||c?Cursors.Hand:Cursors.Default;Invalidate();}}
+        protected override void OnMouseLeave(EventArgs e){base.OnMouseLeave(e);hoverAction=hoverClose=false;Invalidate();}
         protected override async void OnMouseClick(MouseEventArgs e){
-            base.OnMouseClick(e);var r=ActionRect;r.Inflate((int)(4*Sc),(int)(4*Sc));if(!r.Contains(e.Location)||busy)return;
+            base.OnMouseClick(e);if(Grown(CloseRect).Contains(e.Location)){if(Timer!=null)Timer.Dispose();Close();return;}if(!Grown(ActionRect).Contains(e.Location)||busy)return;
             if(onAction==null){Close();return;}
             busy=true;Invalidate();bool ok=false;try{ok=await onAction();}catch{}
             if(IsDisposed)return;busy=false;Invalidate();

diff --git a/desktop/Host.cs b/desktop/Host.cs
@@ -235,15 +235,25 @@ namespace PetCalendarDesktop {
             if(message.Msg==0x0083){message.Result=IntPtr.Zero;return;}
             if(message.Msg==0x0084){
                 base.WndProc(ref message);
-                long packed=message.LParam.ToInt64();var p=PointToClient(new Point((short)(packed&0xffff),(short)((packed>>16)&0xffff)));int edge=DesktopTheme.Px(this,6);
+                long packed=message.LParam.ToInt64();var p=PointToClient(new Point((short)(packed&0xffff),(short)((packed>>16)&0xffff)));
+                int code=ResizeHit(p);if(code!=0){message.Result=new IntPtr(code);return;}
                 int corner=DesktopTheme.Px(this,22);
-                if(p.Y>=0&&p.Y<Padding.Top&&p.X>=corner&&p.X<ClientSize.Width-corner){message.Result=new IntPtr(2);return;}
-                if(WindowState==FormWindowState.Maximized)return;
-                bool left=p.X<edge,right=p.X>=ClientSize.Width-edge,top=p.Y<edge,bottom=p.Y>=ClientSize.Height-edge;
-                if(left||right||top||bottom)message.Result=new IntPtr(top?(left?13:right?14:12):bottom?(left?16:right?17:15):left?10:11);
+                if(p.Y>=0&&p.Y<Padding.Top&&p.X>=corner&&p.X<ClientSize.Width-corner)message.Result=new IntPtr(2);
                 return;
             }
             base.WndProc(ref message);
+        }
+        // Sizing band along the window edge. It reaches a little past the paper margin into the
+        // calendar surface (which passes these points through), so edges are easy to grab.
+        // Corners get a longer grab zone along each side.
+        internal int ResizeHit(Point p){
+            if(WindowState!=FormWindowState.Normal)return 0;int edge=DesktopTheme.Px(this,10),corner=DesktopTheme.Px(this,22);
+            bool left=p.X<edge,right=p.X>=ClientSize.Width-edge,top=p.Y<edge,bottom=p.Y>=ClientSize.Height-edge;
+            if(!(left||right||top||bottom))return 0;
+            bool nearLeft=p.X<corner,nearRight=p.X>=ClientSize.Width-corner,nearTop=p.Y<corner,nearBottom=p.Y>=ClientSize.Height-corner;
+            if((top&&nearLeft)||(left&&nearTop))return 13;if((top&&nearRight)||(right&&nearTop))return 14;
+            if((bottom&&nearLeft)||(left&&nearBottom))return 16;if((bottom&&nearRight)||(right&&nearBottom))return 17;
+            return top?12:bottom?15:left?10:11;
         }
         protected override void OnFormClosing(FormClosingEventArgs e){if(!exiting&&e.CloseReason==CloseReason.UserClosing){e.Cancel=true;Hide();return;}base.OnFormClosing(e);}
         protected override void Dispose(bool disposing){if(disposing){pets.Dispose();widget.Dispose();alarms.Dispose();popup.Dispose();tray.Visible=false;tray.Dispose();menu.Dispose();sound.Dispose();}base.Dispose(disposing);}

diff --git a/desktop/Entry.cs b/desktop/Entry.cs
@@ -16,7 +16,7 @@ using System.Windows.Forms;
 [assembly: AssemblyTitle("펫 캘린더")]
 [assembly: AssemblyDescription("일정과 할 일을 정리하는 펫 캘린더")]
 [assembly: AssemblyProduct("PetCalendar")]
-[assembly: AssemblyVersion("3.0.2.0")]
+[assembly: AssemblyVersion("3.1.0.0")]
 [assembly: TargetFramework(".NETFramework,Version=v4.8",FrameworkDisplayName=".NET Framework 4.8")]
 
 namespace PetCalendarDesktop {

diff --git a/README.md b/README.md
@@ -2,9 +2,9 @@
 
 일정과 할 일을 정리하고, 데스크톱 펫과 함께하는 Windows 캘린더입니다.
 
-이 버전은 WebView2 없이 **WinForms로 직접 그리는 네이티브 캘린더 창**입니다. 디자인과 기능은 이전 웹 버전과 같고, Edge WebView2 프로세스가 더 이상 실행되지 않아 메모리 사용량이 크게 줄어듭니다. 일정·설정 데이터 형식은 그대로라 기존 사용자 데이터를 그대로 이어서 씁니다.
+캘린더 창은 웹 엔진 없이 Windows 기본 화면 기능(WinForms)으로 직접 그립니다. 가볍고 빠르게 열리며, 메모리는 40~60MB 정도만 사용합니다(이전 WebView2 버전은 260MB 이상). v2.x에서 업데이트해도 일정·할 일·설정·펫이 그대로 이어집니다.
 
-[최신 설치 파일 다운로드](https://github.com/luke1546/PetCalendar/releases/latest) · **v3.0.2**
+[최신 설치 파일 다운로드](https://github.com/luke1546/PetCalendar/releases/latest) · **v3.1.0**
 
 이 문서는 `main` 브랜치 기준입니다. 설치 파일의 기능은 해당 [릴리스 안내](https://github.com/luke1546/PetCalendar/releases)와 함께 확인하세요.
 
@@ -30,7 +30,9 @@
 
 - 일정과 할 일, 반복 일정, 완료 표시, 검색 및 D-day
 - 바탕화면 위젯과 일정 알림, JSON 백업
-- 달력에서 일정 드래그 이동과 반복 일정 적용 범위 선택
+- 드래그로 옮기기: 달력·오늘의 계획의 일정을 다른 날짜로, 일정을 할 일 칸으로, 할 일을 달력 날짜로 (반복 일정은 적용 범위 선택)
+- 일정이 많은 날의 **+N개 더 보기**를 누르면 그날 일정 전체를 팝업으로 확인
+- 실행 취소·다시 실행: 삭제·이동·완료 등 모든 변경을 **Ctrl + Z / Ctrl + Y**로 되돌리기
 - 2020~2050년 대한민국 공휴일 표시와 공휴일 펫 인사
 - 글씨 크기 선택: 작게 · 보통 · 크게
 - 펫별 이름과 성격, 컬러 이모지가 포함된 일상 대화와 일정 안내
@@ -47,6 +49,18 @@
 3. **설정 및 백업 → 데스크톱 펫**에서 종류를 고르고 **한 마리 추가**를 누르세요.
 
 새 사용자 설정으로 처음 실행하면 데스크톱 펫이 켜지고 고양이 한 마리가 나타납니다. 퀵투어는 완료하거나 건너뛰면 다시 표시되지 않습니다.
+
+### 단축키
+
+| 키 | 동작 |
+| --- | --- |
+| Ctrl + Tab | 캘린더 창 숨기기·열기 (어디서나, 설정에서 변경 가능) |
+| N | 선택한 날짜에 일정 추가 |
+| T | 오늘로 이동 |
+| ← / → | 이전·다음 달 |
+| / | 일정 검색 |
+| Ctrl + Z / Ctrl + Y | 실행 취소 / 다시 실행 |
+| Esc | 열린 창 닫기 |
 
 ### 펫과 함께하기
 
